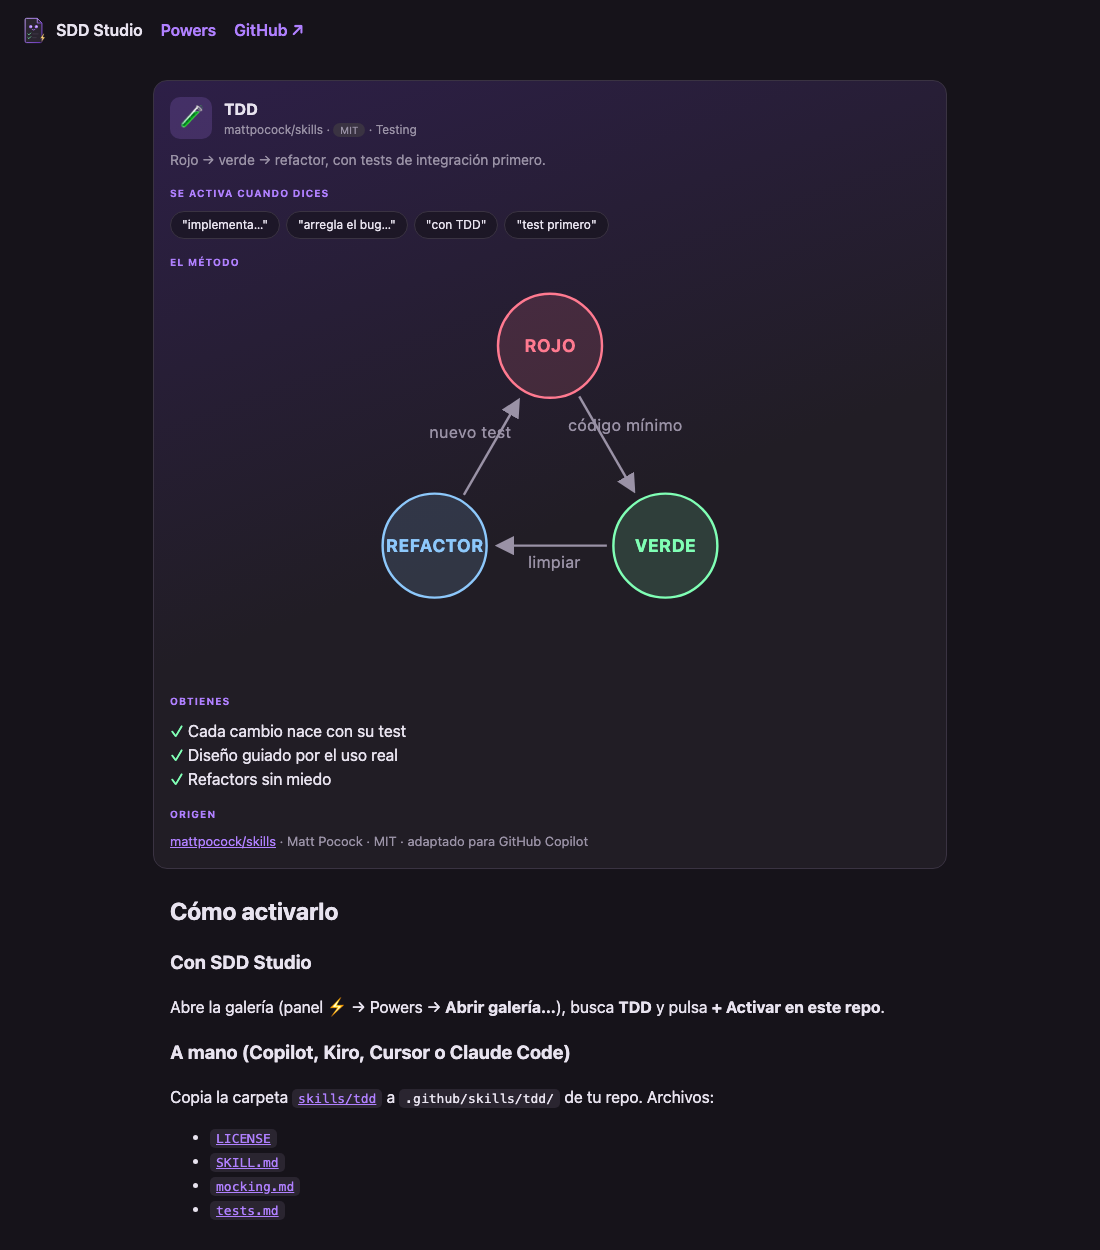
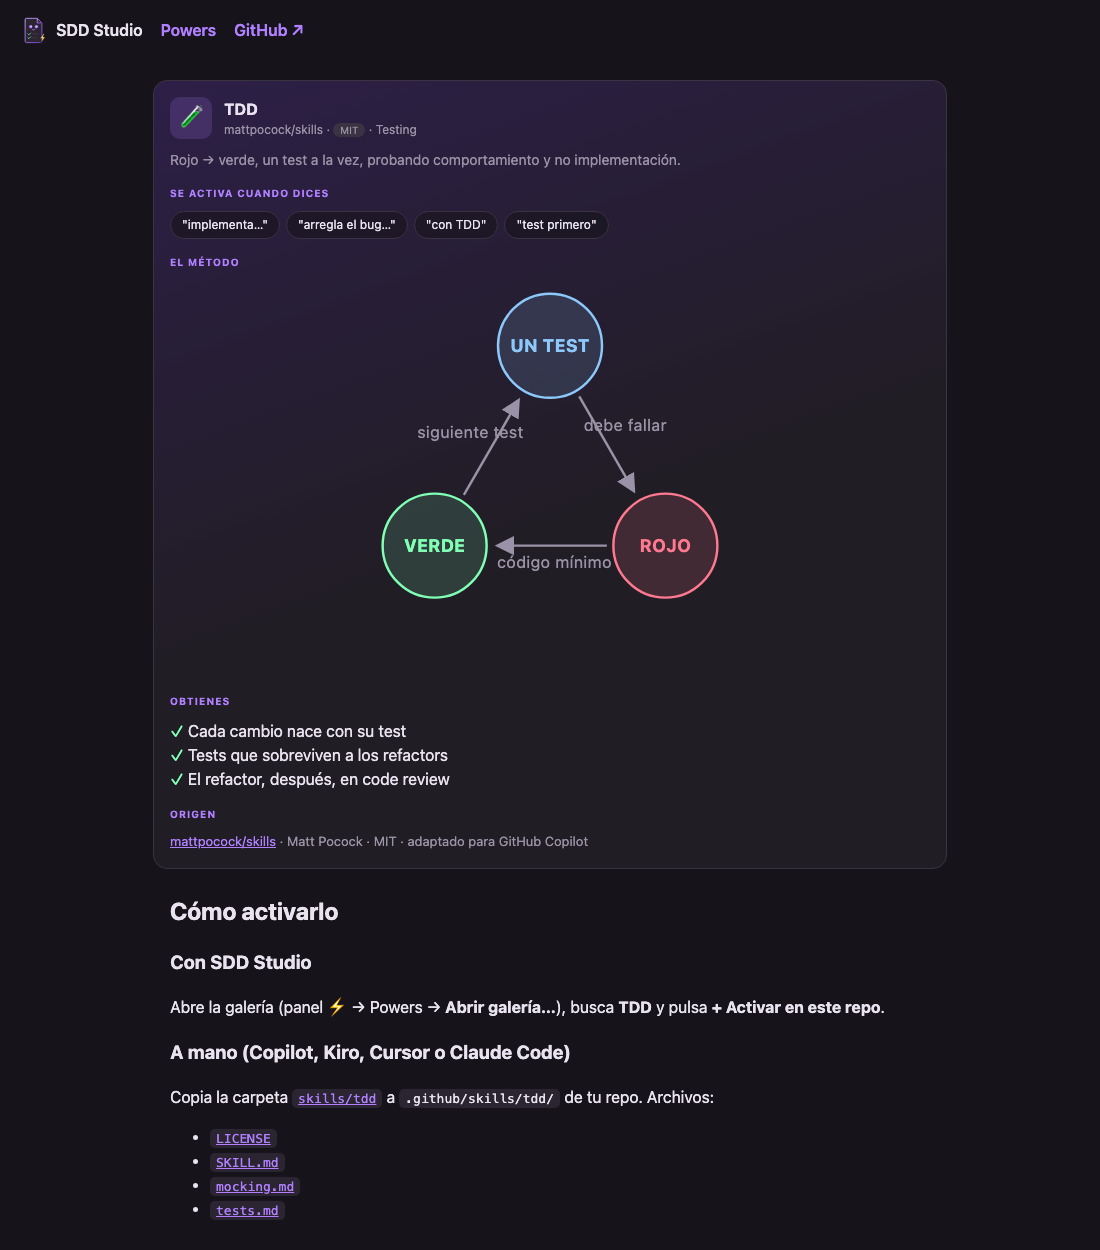
fix(powers): el póster de TDD sigue al skill original (rojo → verde, sin refactor en el bucle) — v0.3.4
- presentation: ciclo UN TEST → ROJO → VERDE y beneficio 'el refactor, después, en code review'
- TDD 1.0.1 (description de SKILL.md y plugin.json alineadas); UPSTREAM.md registra el cambio
- Capturas del README regeneradas

diff --git a/site/index.html b/site/index.html
@@ -165,7 +165,7 @@
 <header class="hero">
   <div class="wrap">
     <img src="speccy.svg" alt="Speccy, la mascota de SDD Studio" width="120" height="120" style="position:relative;display:block;margin:0 auto 14px;filter:drop-shadow(0 10px 30px rgba(113,56,204,.5))">
-    <span class="pill">⚡ v0.3.3 · extensión para VS Code</span>
+    <span class="pill">⚡ v0.3.4 · extensión para VS Code</span>
     <h1>Spec-Driven Development <em>estilo Kiro</em>, dentro de VS Code</h1>
     <p class="lead">Requisitos → diseño → tareas, con tu aprobación en cada paso. Ejecuta las tareas una a una con GitHub Copilot, sin cambiar de editor.</p>
     <div class="cta">
@@ -327,7 +327,7 @@ pedidos a CSV, para analizarlos.
       </ol>
       <div>
         <div class="term"><span class="cm"># instalar</span>
-<span class="pr">$ </span>code --install-extension sdd-studio-0.3.3.vsix
+<span class="pr">$ </span>code --install-extension sdd-studio-0.3.4.vsix
 
 <span class="cm"># o compilar desde el código</span>
 <span class="pr">$ </span>git clone https://github.com/enriquecordero/sdd-studio

diff --git a/powers/tdd/skills/tdd/SKILL.md b/powers/tdd/skills/tdd/SKILL.md
@@ -1,6 +1,6 @@
 ---
 name: tdd
-description: Test-driven development with a red-green-refactor loop. Use when building a feature or fixing a bug test-first, when the user mentions TDD or red-green-refactor, or asks for integration tests. En español: desarrollo guiado por pruebas, "implementa con TDD", "test primero", "rojo verde refactor", "arregla el bug con un test".
+description: Test-driven development with a red → green loop, one test at a time (refactoring happens later, at code review). Use when building a feature or fixing a bug test-first, when the user mentions TDD or red-green-refactor, or asks for integration tests. En español: desarrollo guiado por pruebas, "implementa con TDD", "test primero", "rojo verde refactor", "arregla el bug con un test".
 ---
 
 # Test-Driven Development

diff --git a/powers/tdd/UPSTREAM.md b/powers/tdd/UPSTREAM.md
@@ -19,3 +19,4 @@
 - SKILL.md: la descripción del front matter se reescribe en una línea, con disparadores en español añadidos (según el brief).
 - SKILL.md: "call the Skill tool with "codebase-design"" → "use the `codebase-design` skill" (término de Claude Code sustituido).
 - tests.md y mocking.md: sin cambios.
+- v1.0.1: la description y la presentación describen el bucle como rojo → verde (un test a la vez); el refactor queda fuera del bucle, tal como dice el cuerpo original ("Refactoring is not part of the loop").
